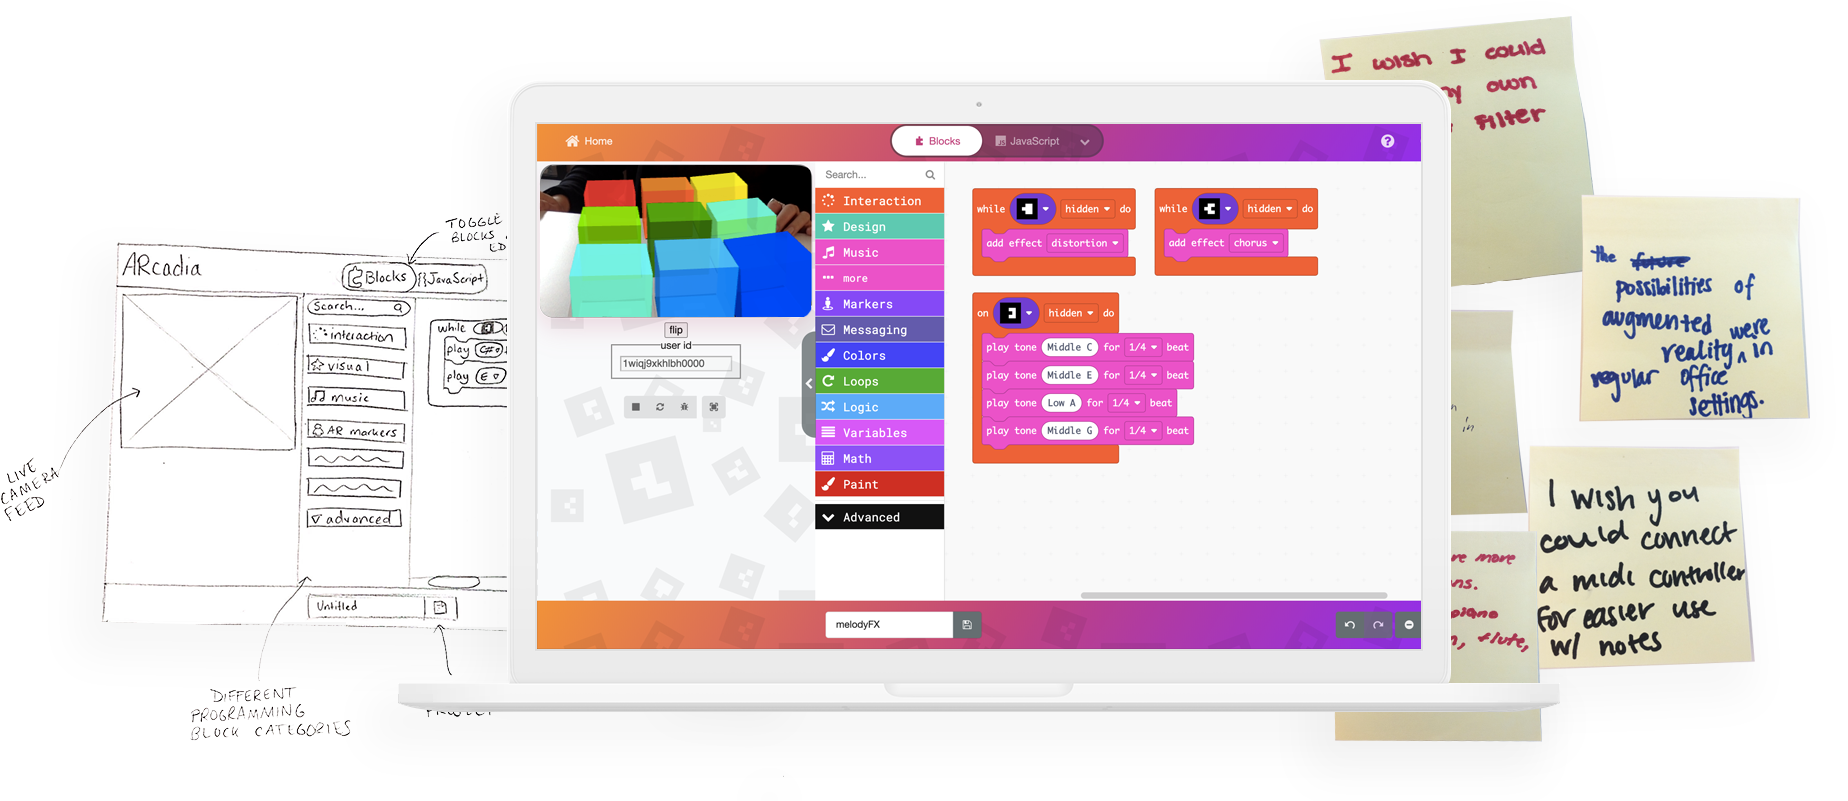
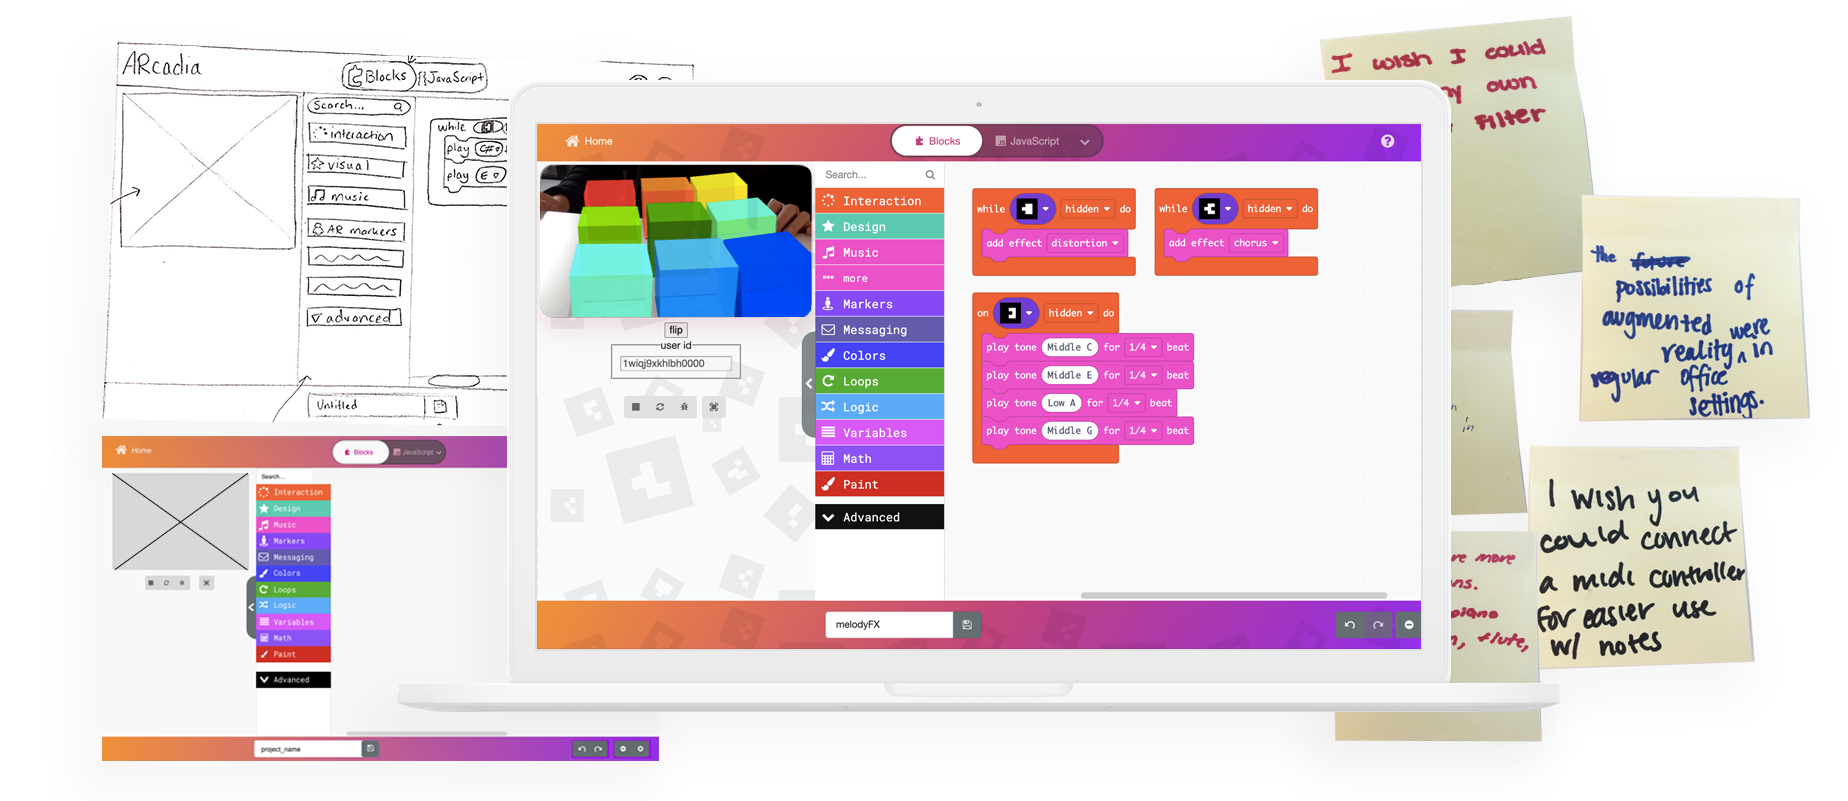
added new mock

Changed region(s): [[0.0308, 0.0624, 0.3701, 0.9675], [0.0617, 0.4682, 0.1234, 0.4994], [0.0, 0.593, 0.0308, 0.6554]]

diff --git a/projects/arcadia/index.html b/projects/arcadia/index.html
@@ -193,15 +193,27 @@
           </div>
         </div>
 
-        <div class="row casestudy-section">
-          <div class="col-lg-12 col-md-12 col-sm-12 my-top text-center">
+        <div class="row casestudy-section mx-auto">
+          <div class="col-lg-4 col-md-12 col-sm-12 my-top text-center">
             <figure>
-              <img src="/assets/img/arcadiasketches.png" alt="Preliminary use-case storyboard and low-fidelity wireframe for ARcadia" height="230">
-              <figcaption class="caption">Preliminary storyboard for ARcadia's musical use-case scenario (left) and <br>a low-fidelity wireframe sketch of the ARcadia interface (right).</figcaption>
+              <img class="img-fluid" src="/assets/img/arcadiawireframe.jpg" alt="Low-fidelity wireframe" height="230">
+              <figcaption class="caption">A low-fidelity wireframe sketch of the ARcadia interface.</figcaption>
             </figure>
+            <!--<figure>
+              <img class="img-fluid" src="/assets/img/arcadiasketches.png" alt="Preliminary use-case storyboard and low-fidelity wireframe for ARcadia" height="230">
+              <figcaption class="caption">Preliminary storyboard for ARcadia's musical use-case scenario (left) and <br>a low-fidelity wireframe sketch of the ARcadia interface (right).</figcaption>
+            </figure>-->
+          </div>
+          <div class="col-lg-4 col-md-12 col-sm-12 my-top text-center">
             <figure>
-            <img class="dropshadowimg" src="/assets/img/arcadiascreenshot2.png" alt="Production version of ARcadia in a web browser" height="250">
-              <figcaption class="caption">Production version of ARcadia in a web browser.</figcaption>
+              <img class="img-fluid dropshadowimg" src="/assets/img/arcadiamock.png" alt="">
+              <figcaption class="caption">High-fidelity mockup.</figcaption>
+            </figure>
+          </div>
+          <div class="col-lg-4 col-md-12 col-sm-12 my-top text-center">
+            <figure>
+              <img class="img-fluid dropshadowimg" src="/assets/img/arcadiascreenshot2.png" alt="Production version in a web browser" height="250">
+              <figcaption class="caption">Production version in a web browser.</figcaption>
             </figure>
           </div>
         </div>
